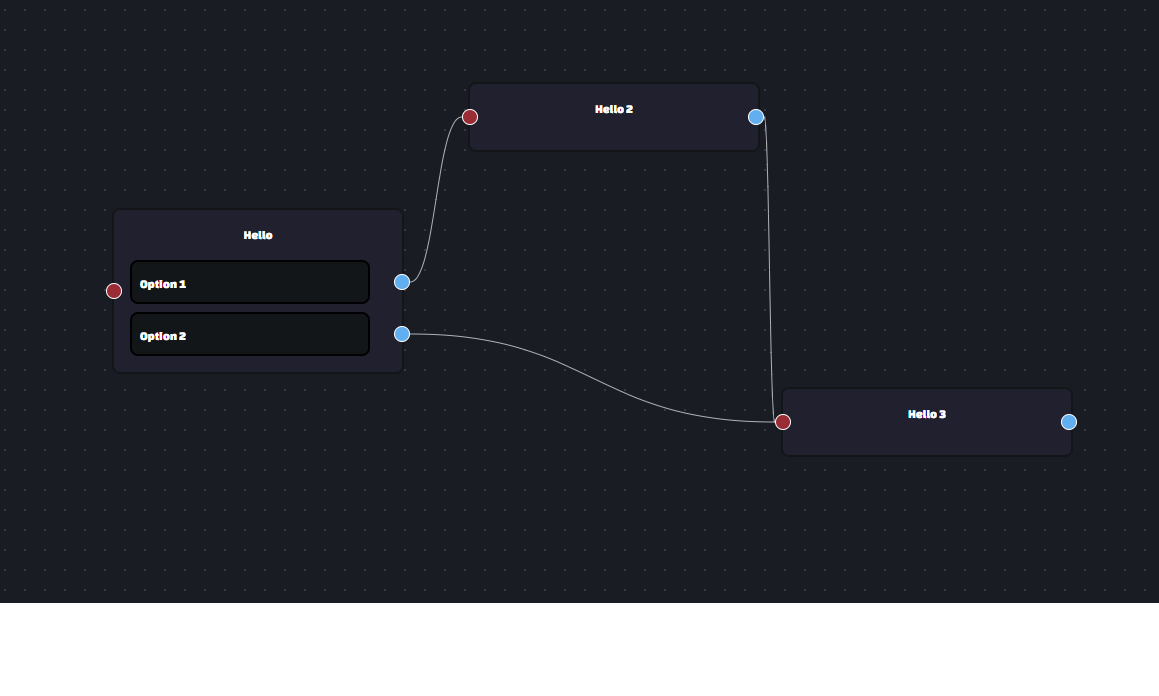
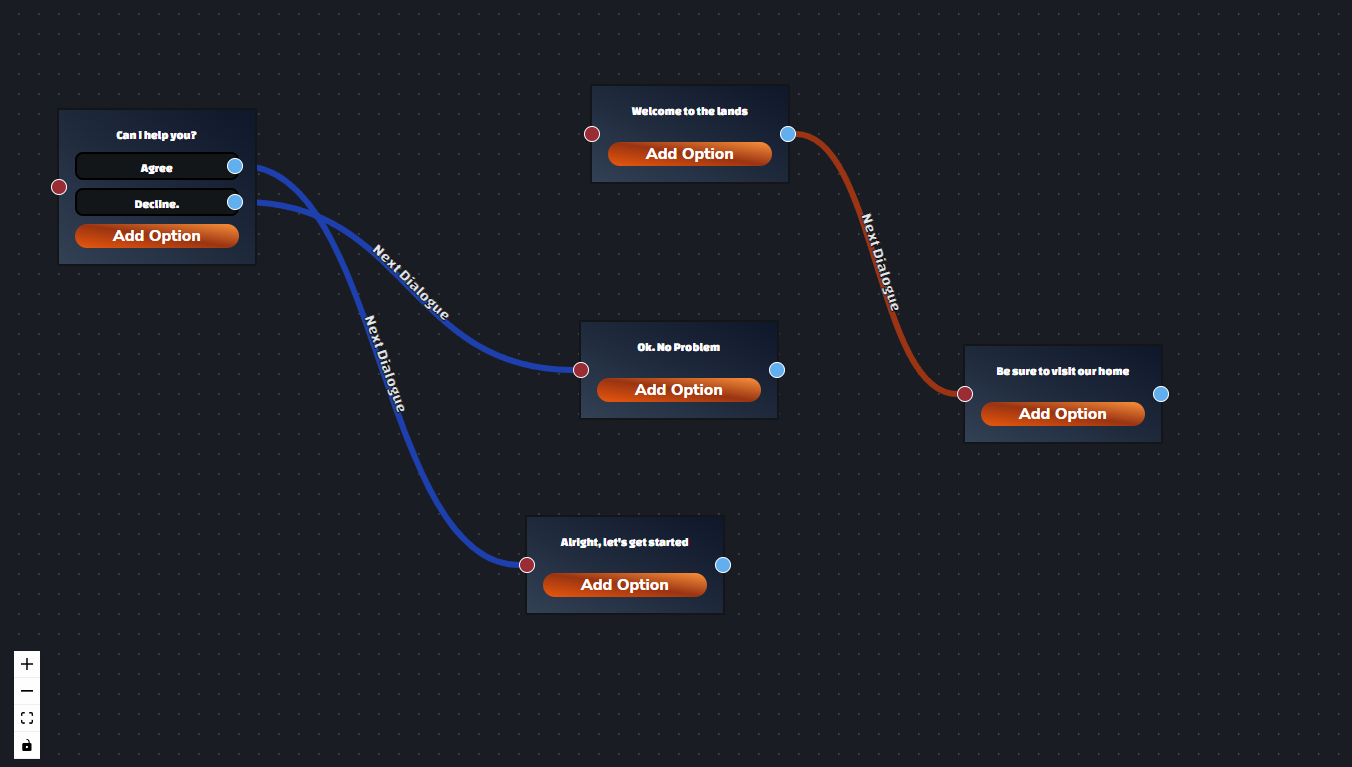
Edge Connections 1-Any 0-Many

diff --git a/src/pages/index.js b/src/pages/index.js
@@ -172,7 +172,7 @@ export default function Home() {
             />
 
         
-        <div key={data} style={{minWidth: `${size.x}px`, minHeight: `${size.y}px`}} className={'justify-between flex flex-col gap-2 p-4 rounded-sm border-2 bg-toolbarbg-2 ' + `${isSelected ? 'border-white' : 'border-toolbarbg-1'}`} >
+        <div key={data} style={{minWidth: `${size.x}px`, minHeight: `${size.y}px`}} className={'justify-between flex flex-col gap-2 p-4 rounded-sm border-2 bg-gradient-to-bl from-slate-900 via-slate-800 to-slate-700 ' + `${isSelected ? 'border-white' : 'border-toolbarbg-1'}`} >
 
           
           <div className="h-max">
@@ -207,7 +207,7 @@ export default function Home() {
           <Handle type="target" position={Position.Left} className="bg-mainBg-4 rounded-full w-4 h-4 left-[-6px]" />
 
           {/* Add option button */}
-          <button className="text-white text-[12px] bg-mainBg-5 rounded-xl font-lato" onClick={()=>OpenAddModal(id)}>Add Option</button>
+          <button className="text-white text-[16px] bg-gradient-to-bl from-orange-400 via-orange-800 to-orange-600 rounded-xl font-nunito" onClick={()=>OpenAddModal(id)}>Add Option</button>
           
 
         </div>
@@ -363,6 +363,25 @@ export default function Home() {
         edge.type = 'option'
         edge.data.text = "Next Dialogue"
        
+        
+        //remove previous edge that has the same sourceHandle and pointed elsewhere
+        let index = -1;
+        for (let i = 0; i < dialogueDataRefs.edgeData_.current.edges.length; i++) {
+
+          if (dialogueDataRefs.edgeData_.current.edges[i] != null && dialogueDataRefs.edgeData_.current.edges[i].sourceHandle === edge.sourceHandle) {
+            index = i;
+            if(dialogueDataRefs.edgeData_.current.edges[i].target == edge.target)return;
+            else break;
+          }
+        }
+
+        if (index != -1) {
+          dialogueDataRefs.edgeData_.current.edges.splice(index, 1);
+          delete updatedEdges[index];
+        }
+
+        
+
          
         dialogueDataRefs.edgeData_.current.edges.push(edge);
         updatedEdges[updatedEdges.length-1] = edge
@@ -384,19 +403,46 @@ export default function Home() {
         edge.target = `${target}`
         edge.type = 'dialogue'
         edge.data.text = "Next Dialogue"
+
+        //remove previous edge that pointed elsewhere
+        let index = -1;
+        for(let i=0;i<dialogueDataRefs.edgeData_.current.edges.length;i++){
+          
+          if(dialogueDataRefs.edgeData_.current.edges[i]!=null && dialogueDataRefs.edgeData_.current.edges[i].source === source){
+            index = i;
+            break;
+          }
+        }
         
+        if(index!=-1){
+          dialogueDataRefs.edgeData_.current.edges.splice(index, 1);
+          delete updatedEdges[index];
+        }
         
         dialogueDataRefs.edgeData_.current.edges.push(edge)
+
+        //updatedEdges = dialogueDataRefs.edgeData_.current.edges;
+        
         
         updatedEdges[updatedEdges.length-1] = edge
         updatedEdges[updatedEdges.length-1].id = edge.id;
 
         dialogueDataRefs.dialogues.current.dialogues[parseInt(source)-1].next = target
+
+        
         
       }
      
       setEdges(updatedEdges)
 
+      for(let i=0;i<updatedEdges.length;i++){
+        if(updatedEdges[i]==null || updatedEdges[i] == undefined){
+          updatedEdges.splice(i,1)
+        }
+      }
+
+
+      console.log(`${dialogueDataRefs.edgeData_.current.edges.length}, ${updatedEdges.length}`)
       
     })
 
